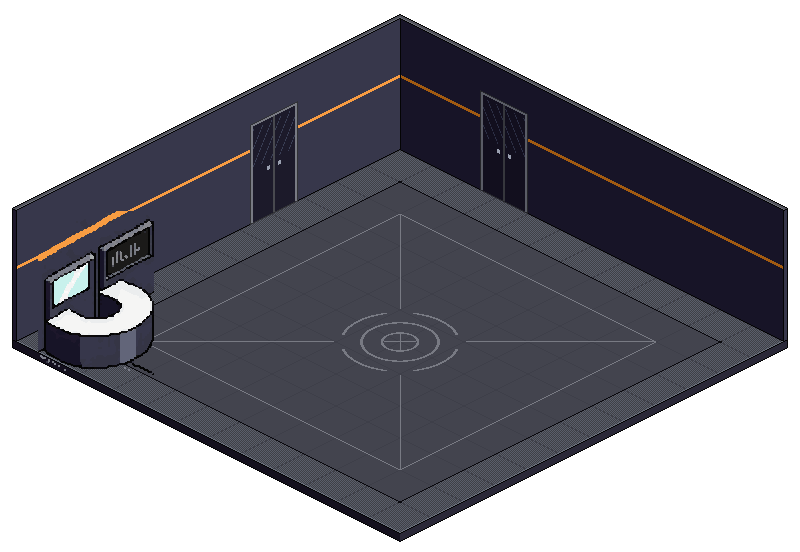
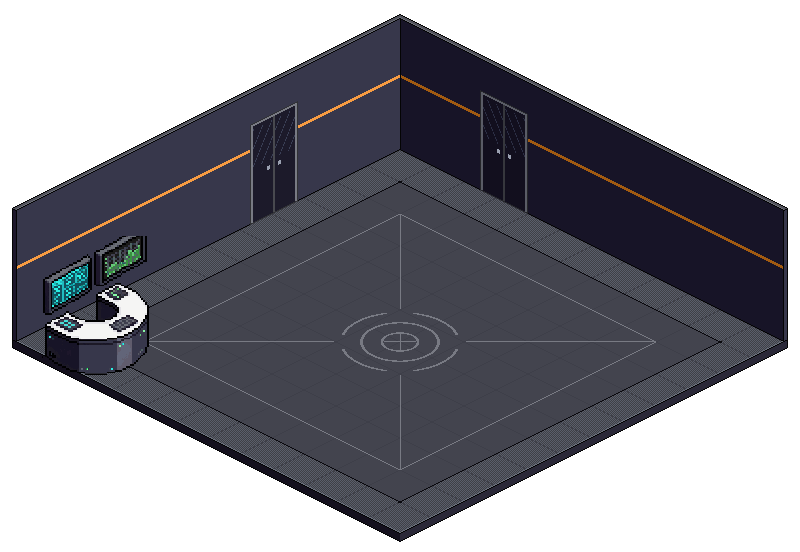
Móveis das salas em PixelLab Pro e sala própria do DevOps
Janela, planta e mesa da salinha; quadro, extintor e mesa da sala de racks;
o NOC do data center (e o SOC da área de rede) refeitos no Pro a partir dos
recortes antigos e encaixados pela base. O montador ganhou: troca do recorte
por uma imagem pronta (alinhada pelo meio da base), descarte de pedaços
soltos que o Pro às vezes desenha e peças avulsas postas num ponto do piso.
O DevOps ganhou sala própria (mesma planta da sala de racks): paredes
azul-ardósia, carpete, faixa roxa, quadro kanban, mesa com dois monitores e
o canto do café.

Changed region(s): [[0.0312, 0.3696, 0.2188, 0.6775]]

diff --git a/Arte/Ferramentas/Montar.cs b/Arte/Ferramentas/Montar.cs
@@ -9,12 +9,17 @@ public static class Montar
     public const int CW = 32, CH = 16;
 
     public class Porta { public char parede; public double u0, u1; public int altura; public int moldura, painel, luz, macaneta; public bool dupla; }
-    public class Movel { public string nome, origem; public int x, y, w, h; public char parede; public double u; public double escala; public int[] trocas; }   // trocas: pares de cores (de, para)
+    public class Movel { public bool soMaior; public double pedacoMinimo, gx, gy;   // gx, gy: peça avulsa (sem recorte), com a base no ponto do piso
+        public string nome, origem, arquivo; public int x, y, w, h; public char parede; public double u; public double escala; public int[] trocas; }   // trocas: pares de cores (de, para)
 
     /// Uma ilustração de onde se recortam móveis: os pixels, o losango do piso (fundo, esquerda, direita) e as cores do
     /// fundo (paredes e piso), que não fazem parte dos móveis.
     public class Base { public string nome; public int[] px; public int w, h; public double ofx, ofy, oex, oey, odx, ody; public int[] fundo; }
     public static readonly Dictionary<string, Base> Bases = new Dictionary<string, Base>();
+    /// Onde salvar os recortes dos móveis (referência para refazer no PixelLab); null: não salva.
+    public static string PastaDosMoveis;
+    /// Pasta das imagens prontas de móveis (Movel.arquivo), que substituem o recorte.
+    public static string PastaDasImagens;
 
     public class Sala
     {
@@ -147,7 +152,7 @@ public static class Montar
             }
 
         // móveis recortados da ilustração
-        foreach (var m in s.moveis) ColarMovel(s, m, Bases[m.origem ?? s.nome], saida, id, W, H);
+        foreach (var m in s.moveis) ColarMovel(s, m, m.w == 0 ? null : Bases[m.origem ?? s.nome], saida, id, W, H);
         return saida;
     }
 
@@ -245,6 +250,52 @@ public static class Montar
 
     // ---------------- móveis ----------------
 
+    /// Só o maior pedaço contínuo de pixels opacos (o resto vira transparente).
+    static int[] MaiorPedaco(int[] p, int w, int h, double fracaoMinima = 1)
+    {
+        var rotulo = new int[w * h];
+        int melhor = 0, tamMelhor = 0, atual = 0;
+        var pilha = new Stack<int>();
+        for (int i = 0; i < p.Length; i++)
+        {
+            if (rotulo[i] != 0 || ((p[i] >> 24) & 255) < 128) continue;
+            atual++; int tam = 0;
+            pilha.Push(i); rotulo[i] = atual;
+            while (pilha.Count > 0)
+            {
+                int j = pilha.Pop(); tam++;
+                int x = j % w, y = j / w;
+                for (int dy = -1; dy <= 1; dy++)
+                    for (int dx = -1; dx <= 1; dx++)
+                    {
+                        int nx = x + dx, ny = y + dy;
+                        if (nx < 0 || ny < 0 || nx >= w || ny >= h) continue;
+                        int n = ny * w + nx;
+                        if (rotulo[n] != 0 || ((p[n] >> 24) & 255) < 128) continue;
+                        rotulo[n] = atual; pilha.Push(n);
+                    }
+            }
+            if (tam > tamMelhor) { tamMelhor = tam; melhor = atual; }
+        }
+        // fica o maior e, com fracaoMinima < 1, os outros pedaços com pelo menos essa fração do tamanho dele
+        var tamanhos = new int[atual + 1];
+        for (int i = 0; i < p.Length; i++) tamanhos[rotulo[i]]++;
+        var o = new int[p.Length];
+        for (int i = 0; i < p.Length; i++)
+            if (rotulo[i] != 0 && (rotulo[i] == melhor || tamanhos[rotulo[i]] >= tamMelhor * fracaoMinima)) o[i] = p[i];
+        return o;
+    }
+
+    /// Retângulo dos pixels opacos: x0, y0, x1, y1.
+    static int[] Caixa(int[] p, int w, int h)
+    {
+        int x0 = w, y0 = h, x1 = 0, y1 = 0;
+        for (int y = 0; y < h; y++)
+            for (int x = 0; x < w; x++)
+                if (((p[y * w + x] >> 24) & 255) >= 128) { x0 = Math.Min(x0, x); y0 = Math.Min(y0, y); x1 = Math.Max(x1, x); y1 = Math.Max(y1, y); }
+        return new[] { x0, y0, x1, y1 };
+    }
+
     static double PeOrig(Base s, char parede, double x)
     {
         // y do pé da parede da ilustração original na coluna x
@@ -259,6 +310,25 @@ public static class Montar
 
     static void ColarMovel(Sala s, Movel m, Base b, int[] tela, int[] id, int W, int H)
     {
+        if (m.w == 0)
+        {
+            // peça avulsa (só a imagem pronta): o meio da base no ponto (gx, gy) do piso
+            int fw, fh;
+            var im = Dobrar.Ler(System.IO.Path.Combine(PastaDasImagens, m.arquivo), out fw, out fh);
+            var c = Caixa(im, fw, fh);
+            double px = s.Bx + CW * m.gx - CW * m.gy, py = s.By + CH * m.gx + CH * m.gy;
+            int ox = (int)Math.Round(px - (c[0] + c[2]) / 2.0), oy = (int)Math.Round(py - c[3]);
+            for (int y = 0; y < fh; y++)
+                for (int x = 0; x < fw; x++)
+                {
+                    int cor = im[y * fw + x];
+                    if (((cor >> 24) & 255) < 128) continue;
+                    int X = ox + x, Y = oy + y;
+                    if (X < 0 || Y < 0 || X >= W || Y >= H || id[Y * W + X] == Vazio) continue;
+                    tela[Y * W + X] = cor;
+                }
+            return;
+        }
         int[] orig = b.px; int ow = b.w, oh = b.h;
         // recorte: tira o fundo da ilustração (paredes, piso e as linhas do pé das paredes) que encosta na borda do
         // retângulo; o que tem cor de fundo mas fica cercado pelo móvel (assento, tampo da mesa) continua
@@ -307,7 +377,21 @@ public static class Montar
             img = Dobrar.Reduzir(img, iw, ih, m.escala / 2.0, out nw, out nh);
             iw = nw; ih = nh;
         }
+        if (PastaDosMoveis != null) Dobrar.Gravar(System.IO.Path.Combine(PastaDosMoveis, s.nome + "_" + m.nome + ".png"), img, iw, ih);
         double k = iw / (double)m.w;   // escala efetiva
+        int ajusteX = 0, ajusteY = 0;
+        if (m.arquivo != null)
+        {
+            // móvel refeito (PixelLab Pro): entra no lugar do recorte ampliado, com a base (centro e chão) no mesmo ponto
+            int fw, fh;
+            var novo = Dobrar.Ler(System.IO.Path.Combine(PastaDasImagens, m.arquivo), out fw, out fh);
+            if (m.soMaior) novo = MaiorPedaco(novo, fw, fh);   // o Pro às vezes repete um pedaço do objeto na imagem
+            else if (m.pedacoMinimo > 0) novo = MaiorPedaco(novo, fw, fh, m.pedacoMinimo);   // tira pedaços soltos pequenos
+            int[] cv = Caixa(img, iw, ih), cn = Caixa(novo, fw, fh);
+            ajusteX = (cv[0] + cv[2]) / 2 - (cn[0] + cn[2]) / 2;
+            ajusteY = cv[3] - cn[3];
+            img = novo; iw = fw; ih = fh;
+        }
 
         // ponto de referência: o pé da parede embaixo da borda esquerda do recorte (ou o canto do fundo)
         double rxo, ryo, rxn, ryn;
@@ -319,6 +403,7 @@ public static class Montar
             else { rxn = s.Bx + CW * m.u; ryn = s.By + CH * m.u; }
         }
         int x0 = (int)Math.Round(rxn + (m.x - rxo) * k), y0 = (int)Math.Round(ryn + (m.y - ryo) * k);
+        x0 += ajusteX; y0 += ajusteY;
         for (int y = 0; y < ih; y++)
             for (int x = 0; x < iw; x++)
             {

diff --git a/Arte/Ferramentas/Salas.cs b/Arte/Ferramentas/Salas.cs
@@ -35,9 +35,9 @@ public static class Salas
             piso = "tabua", pisoCores = Cs("DDA87C", "D8A276", "8C5545", "98634D", "642D38", "B07A58"),
         };
         s.portas.Add(new Montar.Porta { parede = 'D', u0 = 2.45, u1 = 3.75, altura = 98, moldura = C("582D1F"), painel = C("B8B7B6"), luz = C("D4D3D2"), macaneta = C("3A2A20") });
-        s.moveis.Add(new Montar.Movel { nome = "janela", x = 210, y = 66, w = 40, h = 76, parede = 'D', u = 0.5, escala = 1.5 });
-        s.moveis.Add(new Montar.Movel { nome = "planta", x = 172, y = 82, w = 52, h = 84, parede = 'C', escala = 1.5 });
-        s.moveis.Add(new Montar.Movel { nome = "mesa", x = 264, y = 132, w = 94, h = 100, parede = 'D', u = 2.8, escala = 1.5 });
+        s.moveis.Add(new Montar.Movel { nome = "janela", x = 210, y = 66, w = 40, h = 76, parede = 'D', u = 0.5, escala = 1.5, arquivo = "moveis_pro/janela.png" });
+        s.moveis.Add(new Montar.Movel { nome = "planta", x = 172, y = 82, w = 52, h = 84, parede = 'C', escala = 1.5, arquivo = "moveis_pro/planta.png" });
+        s.moveis.Add(new Montar.Movel { nome = "mesa", x = 264, y = 132, w = 94, h = 100, parede = 'D', u = 2.8, escala = 1.5, arquivo = "moveis_pro/mesa_salinha.png", pedacoMinimo = 0.15 });
         l.Add(s);
 
         // Sala de racks (Analista e DevOps): 10 casas, piso de ladrilho, quadro e mesa na frente da parede da esquerda.
@@ -51,9 +51,26 @@ public static class Salas
         };
         s.portas.Add(new Montar.Porta { parede = 'E', u0 = 3.0, u1 = 4.3, altura = 98, moldura = C("5C5B5B"), painel = C("3B3A3A"), luz = C("4C4A4A"), macaneta = C("D8D8D8") });
         s.portas.Add(new Montar.Porta { parede = 'D', u0 = 2.0, u1 = 3.3, altura = 98, moldura = C("3E3C3C"), painel = C("2C2B2B"), luz = C("383737"), macaneta = C("D8D8D8") });
-        s.moveis.Add(new Montar.Movel { nome = "quadro", x = 48, y = 106, w = 50, h = 64, parede = 'E', u = 9.3, escala = 1.5 });
-        s.moveis.Add(new Montar.Movel { nome = "extintor", x = 119, y = 104, w = 18, h = 36, parede = 'E', u = 6.5, escala = 1.5 });
-        s.moveis.Add(new Montar.Movel { nome = "mesa", x = 50, y = 135, w = 82, h = 78, parede = 'E', u = 9.2, escala = 1.5 });
+        s.moveis.Add(new Montar.Movel { nome = "quadro", x = 48, y = 106, w = 50, h = 64, parede = 'E', u = 9.3, escala = 1.5, arquivo = "moveis_pro/quadro.png", soMaior = true });
+        s.moveis.Add(new Montar.Movel { nome = "extintor", x = 119, y = 104, w = 18, h = 36, parede = 'E', u = 6.5, escala = 1.5, arquivo = "moveis_pro/extintor.png" });
+        s.moveis.Add(new Montar.Movel { nome = "mesa", x = 50, y = 135, w = 82, h = 78, parede = 'E', u = 9.2, escala = 1.5, arquivo = "moveis_pro/mesa_racks.png", pedacoMinimo = 0.15 });
+        l.Add(s);
+
+        // DevOps (sala virtualizada): a mesma planta da sala de racks (o jogo encaixa igual), com cara de time de
+        // produto: paredes azul-ardósia, carpete, faixa roxa, quadro kanban, mesa com dois monitores e o canto do café
+        s = new Montar.Sala
+        {
+            nome = "devops", n = 10, altura = 132, laje = 12, espessura = 0.16,
+            contorno = C("0B0C16"), capaCor = C("6E7393"), capaLuz = C("A9AED0"), paredeEsq = C("4A4F6B"), paredeDir = C("383C55"),
+            pontaEsq = C("383C55"), pontaDir = C("4A4F6B"), lajeEsq = C("15172A"), lajeDir = C("24273E"), bordaLuz = C("8F95B8"),
+            piso = "ladrilho", pisoCores = Cs("5D6178", "595D73", "555970", "2E3142", "6E7290", "676B88"),
+            faixa = C("B37CFF"), faixaSombra = C("7A4FC0"), faixaAltura = 0.55,
+        };
+        s.portas.Add(new Montar.Porta { parede = 'E', u0 = 3.0, u1 = 4.3, altura = 98, moldura = C("6E7393"), painel = C("2E3142"), luz = C("3B3F57"), macaneta = C("D8D8D8") });
+        s.portas.Add(new Montar.Porta { parede = 'D', u0 = 2.0, u1 = 3.3, altura = 98, moldura = C("4A4F6B"), painel = C("24273E"), luz = C("2E3142"), macaneta = C("D8D8D8") });
+        s.moveis.Add(new Montar.Movel { nome = "kanban", origem = "racks", x = 48, y = 106, w = 50, h = 64, parede = 'E', u = 9.3, escala = 1.5, arquivo = "moveis_pro/kanban.png", soMaior = true });
+        s.moveis.Add(new Montar.Movel { nome = "mesa", origem = "racks", x = 50, y = 135, w = 82, h = 78, parede = 'E', u = 9.2, escala = 1.5, arquivo = "moveis_pro/mesa_devops.png", pedacoMinimo = 0.15 });
+        s.moveis.Add(new Montar.Movel { nome = "cafe", arquivo = "moveis_pro/cafe.png", gx = 0.55, gy = 5.9 });
         l.Add(s);
 
         // Data center (SRE em diante): 12 casas, piso técnico com a faixa perfurada, NOC na frente da parede da esquerda
@@ -67,7 +84,7 @@ public static class Salas
         };
         s.portas.Add(new Montar.Porta { parede = 'E', u0 = 3.2, u1 = 4.7, altura = 100, dupla = true, moldura = C("787A83"), painel = C("1C1A2A"), luz = C("3A3F55"), macaneta = C("9AA0B0") });
         s.portas.Add(new Montar.Porta { parede = 'D', u0 = 2.5, u1 = 4.0, altura = 100, dupla = true, moldura = C("5A5C66"), painel = C("120F1E"), luz = C("2C2F45"), macaneta = C("9AA0B0") });
-        s.moveis.Add(new Montar.Movel { nome = "noc", x = 34, y = 128, w = 58, h = 82, parede = 'E', u = 11.3, escala = 2 });
+        s.moveis.Add(new Montar.Movel { nome = "noc", x = 34, y = 128, w = 58, h = 82, parede = 'E', u = 11.3, escala = 2, arquivo = "moveis_pro/noc.png" });
         l.Add(s);
 
         // Dados e backup (atrás da porta da direita): sala fria e clara, storage na parede da esquerda, fitas na da direita.
@@ -81,7 +98,7 @@ public static class Salas
             faixa = C("8FD3FF"), faixaSombra = C("4C7DA6"), faixaAltura = 0.86,
         };
         s.portas.Add(new Montar.Porta { parede = 'E', u0 = 5.2, u1 = 6.5, altura = 98, moldura = C("8A93A6"), painel = C("2E3344"), luz = C("3E4658"), macaneta = C("D8D8D8") });
-        s.moveis.Add(new Montar.Movel { nome = "extintor", origem = "racks", x = 119, y = 104, w = 18, h = 36, parede = 'E', u = 4.6, escala = 1.5 });
+        s.moveis.Add(new Montar.Movel { nome = "extintor", origem = "racks", x = 119, y = 104, w = 18, h = 36, parede = 'E', u = 4.6, escala = 1.5, arquivo = "moveis_pro/extintor.png" });
         l.Add(s);
 
         // Rede e segurança (atrás da porta da esquerda): sala escura com faixa verde, os racks de rede e de segurança e a
@@ -95,7 +112,7 @@ public static class Salas
             faixa = C("4FD18B"), faixaSombra = C("2E8A5A"), faixaAltura = 0.55,
         };
         s.portas.Add(new Montar.Porta { parede = 'D', u0 = 5.2, u1 = 6.5, altura = 98, moldura = C("4A5266"), painel = C("161A26"), luz = C("2B3140"), macaneta = C("9AA0B0") });
-        s.moveis.Add(new Montar.Movel { nome = "soc", origem = "dc", x = 34, y = 128, w = 58, h = 82, parede = 'E', u = 6.6, escala = 2,
+        s.moveis.Add(new Montar.Movel { nome = "soc", origem = "dc", x = 34, y = 128, w = 58, h = 82, parede = 'E', u = 6.6, escala = 2, arquivo = "moveis_pro/noc.png",
             trocas = Cs("37374B", "2B3140", "353545", "293040", "171427", "1C2130", "F79C42", "2B3140", "A25B11", "1C2130") });
         l.Add(s);
         return l;

diff --git a/Assets/_IdleDataCenter/Scripts/Gerente/SalaIsoIlustrada.cs b/Assets/_IdleDataCenter/Scripts/Gerente/SalaIsoIlustrada.cs
@@ -31,13 +31,13 @@ namespace IdleDataCenter.Gerente
             public int casas;
         }
 
-        /// <summary>Uma por cargo. O DevOps usa a sala de racks até ganhar a sua; do SRE em diante, o data center.</summary>
+        /// <summary>Uma por cargo: o DevOps tem a sua (mesma planta da sala de racks, outra decoração); do SRE em diante, o data center.</summary>
         static readonly Ilustracao[] Ilustracoes =
         {
             new Ilustracao { nome = "armario", equip = "", fundo = new Vector2(200, 146), esquerda = new Vector2(57.5f, 217), direita = new Vector2(341, 218), casas = 4 },
             new Ilustracao { nome = "salinha_hd", equip = "_g", fundo = new Vector2(244, 140), esquerda = new Vector2(20, 252), direita = new Vector2(468, 252), casas = 7 },
             new Ilustracao { nome = "racks_hd", equip = "_g", escala = 2, fundo = new Vector2(338, 152), esquerda = new Vector2(18, 312), direita = new Vector2(658, 312), casas = 10 },
-            new Ilustracao { nome = "racks_hd", equip = "_g", escala = 2, fundo = new Vector2(338, 152), esquerda = new Vector2(18, 312), direita = new Vector2(658, 312), casas = 10 },
+            new Ilustracao { nome = "devops_hd", equip = "_g", escala = 2, fundo = new Vector2(338, 152), esquerda = new Vector2(18, 312), direita = new Vector2(658, 312), casas = 10 },
             new Ilustracao { nome = "dc_hd", equip = "_g", escala = 2, fundo = new Vector2(400, 150), esquerda = new Vector2(16, 342), direita = new Vector2(784, 342), casas = 12 },
         };
 
